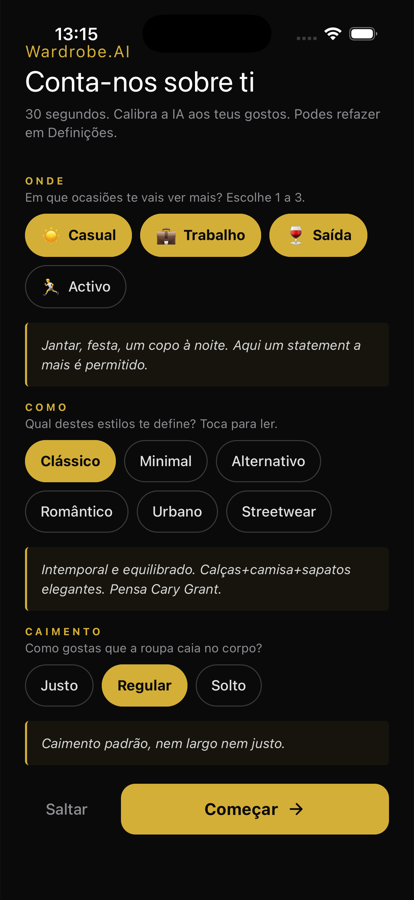
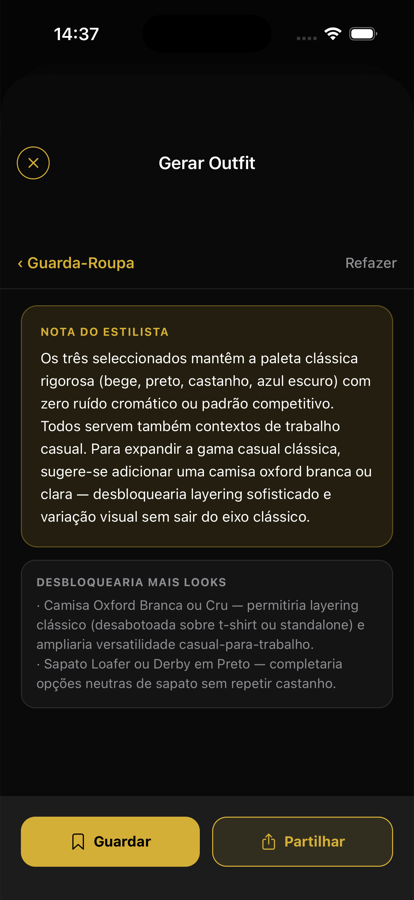
feat: trocar mockup por ecrã "Nota do Estilista" (inteligência real da IA)
O terceiro telemóvel passa a mostrar o ecrã que o Paulo navegou ao vivo:
a NOTA DO ESTILISTA com raciocínio da IA sobre o guarda-roupa e sugestões
concretas ("desbloquearia mais looks: camisa oxford branca, loafer preto").
Muito mais forte do que o onboarding anterior. Legenda: "A IA aconselha-te"
/ "AI advises you".

diff --git a/public/en/index.html b/public/en/index.html
@@ -660,8 +660,8 @@
       <figcaption>AI dresses you</figcaption>
     </figure>
     <figure class="phone">
-      <img src="/mockups/narrative.png" alt="Personalisation screen that teaches the AI your taste" loading="lazy">
-      <figcaption>Learns with you</figcaption>
+      <img src="/mockups/narrative.png" alt="AI stylist note with suggestions for your wardrobe" loading="lazy">
+      <figcaption>AI advises you</figcaption>
     </figure>
   </div>
 

diff --git a/public/index.html b/public/index.html
@@ -669,8 +669,8 @@
       <figcaption>A IA veste-te</figcaption>
     </figure>
     <figure class="phone">
-      <img src="/mockups/narrative.png" alt="Ecrã de personalização que ensina os teus gostos à IA" loading="lazy">
-      <figcaption>Aprende contigo</figcaption>
+      <img src="/mockups/narrative.png" alt="Nota do estilista IA com sugestões para o teu guarda-roupa" loading="lazy">
+      <figcaption>A IA aconselha-te</figcaption>
     </figure>
   </div>
 